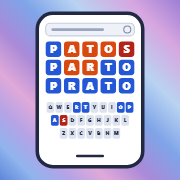
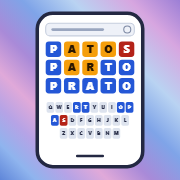
Laranja âmbar (diferente do vermelho), ENVIAR verde à direita e pausa antes de passar a vez na Dupla

Changed region(s): [[0.3333, 0.2222, 0.6667, 0.4167]]

diff --git a/estilo.css b/estilo.css
@@ -9,7 +9,9 @@
   --sobre-primaria: #FFFFFF;
   /* cores do jogo (legenda do rascunho) */
   --azul: #2457D6;      /* no lugar certo */
-  --laranja: #D9480F;   /* tem, mas em outro lugar */
+  --laranja: #F59E0B;   /* tem, mas em outro lugar: laranja-amarelado, bem diferente do vermelho */
+  --sobre-laranja: #2B1700; /* letra escura no laranja (contraste alto) */
+  --enviar: #15803D;    /* botão ENVIAR */
   --vermelho: #B42318;  /* não tem */
   --tecla: #DDE3EE;
   --sombra: 0 2px 0 rgba(15, 23, 42, .12);
@@ -26,7 +28,7 @@
   :root {
     --fundo: #0E1424; --cartao: #182036; --texto: #EEF2FA; --texto-2: #A9B4C8;
     --borda: #34405A; --borda-ativa: #8A97B0; --tecla: #2A3450;
-    --primaria: #4C7DF0; --azul: #3D6FE6; --laranja: #E8590C; --vermelho: #C9302C;
+    --primaria: #4C7DF0; --azul: #3D6FE6; --laranja: #F59E0B; --vermelho: #C9302C;
     --sombra: 0 2px 0 rgba(0, 0, 0, .4);
     --ceu: linear-gradient(to bottom left,
       #3B2A6B 0%, #5A3570 14%, #24406E 30%, #1E3263 44%, #3A2D6E 58%,
@@ -141,7 +143,7 @@ button:focus-visible { outline: 3px solid var(--primaria); outline-offset: 2px; 
 .casa.fixa { color: var(--azul); border-color: var(--azul); background: color-mix(in srgb, var(--azul) 14%, var(--cartao)); }
 .casa[data-e] { color: #fff; border-color: transparent; }
 .casa[data-e="c"] { background: var(--azul); }
-.casa[data-e="p"] { background: var(--laranja); }
+.casa[data-e="p"] { background: var(--laranja); color: var(--sobre-laranja); }
 .casa[data-e="a"] { background: var(--vermelho); }
 .casa.vira { animation: vira .45s both; animation-delay: calc(var(--i) * 110ms); }
 
@@ -150,7 +152,7 @@ button:focus-visible { outline: 3px solid var(--primaria); outline-offset: 2px; 
   content: ""; position: absolute; right: 4px; bottom: 4px; width: 7px; height: 7px;
 }
 .simbolos .casa[data-e="c"]::after, .simbolos .tecla[data-e="c"]::after { background: #fff; border-radius: 2px; }
-.simbolos .casa[data-e="p"]::after, .simbolos .tecla[data-e="p"]::after { border: 2px solid #fff; border-radius: 50%; }
+.simbolos .casa[data-e="p"]::after, .simbolos .tecla[data-e="p"]::after { border: 2px solid var(--sobre-laranja); border-radius: 50%; }
 .simbolos .casa[data-e="a"]::after, .simbolos .tecla[data-e="a"]::after { height: 2px; background: rgba(255,255,255,.85); bottom: 6px; }
 
 .toast {
@@ -169,10 +171,14 @@ button:focus-visible { outline: 3px solid var(--primaria); outline-offset: 2px; 
   display: grid; place-items: center; touch-action: manipulation;
 }
 .tecla.larga { max-width: 72px; flex: 1.6; font-size: .85rem; }
+/* ENVIAR: verde, mais largo, à direita (perto do polegar); pulsa quando a linha está completa */
+.tecla.enviar { max-width: 96px; flex: 2.2; background: var(--enviar); color: #fff; font-size: .95rem; font-weight: 800; letter-spacing: .03em; }
+.tecla.enviar.pronto { animation: chama 1.1s ease-in-out infinite; }
+@keyframes chama { 0%, 100% { box-shadow: 0 0 0 0 rgba(21, 128, 61, .55); } 50% { box-shadow: 0 0 0 7px rgba(21, 128, 61, 0); } }
 .tecla:active { transform: translateY(1px); box-shadow: none; }
 .tecla[data-e] { color: #fff; }
 .tecla[data-e="c"] { background: var(--azul); }
-.tecla[data-e="p"] { background: var(--laranja); }
+.tecla[data-e="p"] { background: var(--laranja); color: var(--sobre-laranja); }
 .tecla[data-e="a"] { background: var(--vermelho); opacity: .55; }
 .teclado.travado { pointer-events: none; opacity: .6; }
 

diff --git a/jogo.js b/jogo.js
@@ -176,10 +176,10 @@ function desenhar(animarUltima = false) {
     b.setAttribute("aria-current", String(b.dataset.nav === J.modo)));
 }
 
-const FILAS = ["QWERTYUIOP", "ASDFGHJKL", "+ZXCVBNM-"];
+const FILAS = ["QWERTYUIOP", "ASDFGHJKL", "-ZXCVBNM+"]; // apagar à esquerda, ENVIAR à direita
 function desenharTeclado(j) {
   teclado.innerHTML = FILAS.map(f => `<div class="fila">${[...f].map(c => {
-    if (c === "+") return `<button class="tecla larga" data-k="Enter">ENVIAR</button>`;
+    if (c === "+") return `<button class="tecla larga enviar" data-k="Enter">ENVIAR</button>`;
     if (c === "-") return `<button class="tecla larga" data-k="Backspace" aria-label="Apagar"><svg class="ic"><use href="#i-del"/></svg></button>`;
     const e = j.teclas[c];
     return `<button class="tecla" data-k="${c}"${e ? ` data-e="${e}"` : ""}>${c}</button>`;
@@ -190,6 +190,7 @@ function linhaAtualAtualizar() {
   const linha = $("#linha-atual");
   if (!linha) return;
   const m = montar();
+  $(".tecla.enviar")?.classList.toggle("pronto", J.atual.length >= livres());
   [...linha.children].forEach((c, i) => {
     if (c.classList.contains("fixa")) return;
     const l = m[i] || "";
@@ -263,15 +264,22 @@ function depoisDaJogada() {
   const outroAinda = !esgotou(J.jogadores[outro]);
   if (!outroAinda && esgotou(j)) return encerrar({ empate: true });
   if (outroAinda) {
+    // deixa a tentativa na tela uns segundos antes de esconder e passar a vez
     J.vez = outro;
     salvarPartida();
-    mostrarTransicao(outro);
+    travado = true; teclado.classList.add("travado");
+    aviso(`Vez de ${nomeDe(outro)} em instantes…`, 2800);
+    setTimeout(() => {
+      travado = false; teclado.classList.remove("travado");
+      if (J.modo === "D" && J.vez === outro && !J.fim) mostrarTransicao(outro);
+    }, ESPERA_PASSAR_VEZ);
   } else {
     aviso(`${nomeDe(outro)} já usou todas as tentativas`);
   }
 }
 
 /* ---------- transição da Dupla ---------- */
+const ESPERA_PASSAR_VEZ = 3000; // ms que a tentativa fica à vista antes da tela de passar a vez
 function mostrarTransicao(i) {
   tabuleiro.innerHTML = "";
   $("#tr-nome").textContent = nomeDe(i);

diff --git a/sw.js b/sw.js
@@ -1,6 +1,6 @@
 // Guarda os arquivos do jogo para funcionar sem internet.
 // Ao mudar qualquer arquivo, troque a versão abaixo para o aparelho baixar de novo.
-const VERSAO = "jogo-thomas-v8";
+const VERSAO = "jogo-thomas-v9";
 const ARQUIVOS = ["./", "index.html", "estilo.css", "jogo.js", "palavras.js", "nuvem.js", "online.js", "manifest.webmanifest",
   "icone.svg", "icone-192.png", "icone-512.png", "icone-180.png"];
 
